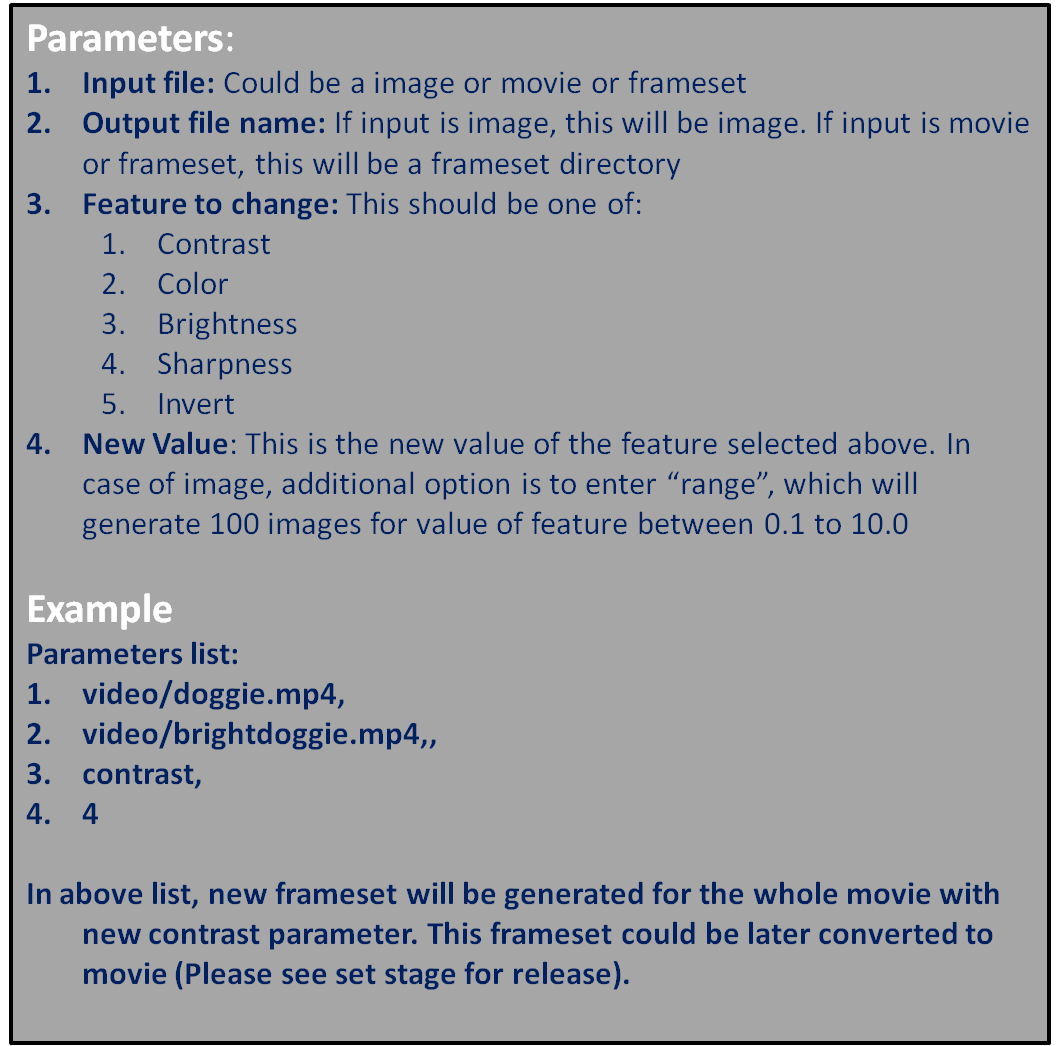
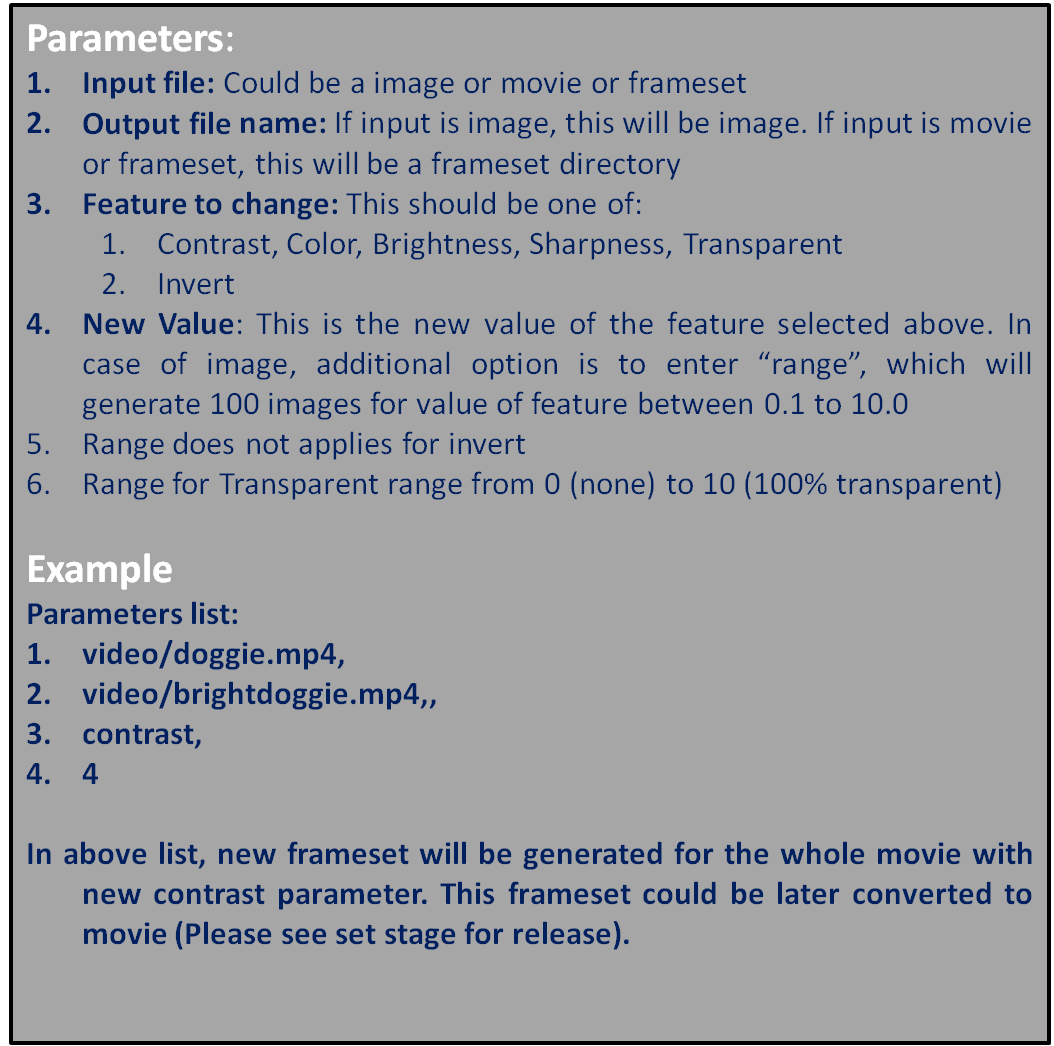
adding for transparency and video range

Changed region(s): [[0.0304, 0.0, 1.0, 1.0], [0.0304, 0.3059, 0.0607, 0.3365]]

diff --git a/imagings.py b/imagings.py
@@ -353,26 +353,30 @@ def image_createillustration (ifile = '', ofile = '', method = '', islist = 0, a
     return 1
 
 def ui_image_manipulation_basic (entparams = [], appsetup = {}):
-    permissibles = ['contrast', 'color', 'brightness', 'sharpness', 'invert']
+    permissibles = ['contrast', 'color', 'brightness', 'sharpness', 'invert', 'transparent']
     if entparams[2] not in permissibles:
         localmessage (mtype = 'error', title = 'Incorrect action type', message = f"The feature to be modified should be one of: {', '.join(permissibles)}")
         return -1
     newVal = pyback.forceint(entparams[3], 1) if entparams[3] != 'range' else 'range'
     outfolder = 1 if newVal == 'range' else 0
     inpfile, outfile = create_output_path (param0 = entparams[0], param1 = entparams[1], appsetup = appsetup, outfolder = outfolder)
-    if inpfile.is_dir() and newVal == 'range':
-        localmessage (mtype = 'error', title = 'Range is invalid', message = f"Setting range over already set of images will create too many media. Stopping")
-        return -1
     if inpfile.is_dir():
-        for ifile in inpfile.iterdir():
-            ofile = outfile / ifile.name
-            enhance_image_basic (ifile = ifile, ofile = ofile, param = entparams[2], nval = newVal)
-    elif newVal == 'range':
-        for frid in range(1, 101):
-            newcVal = (frid-1)*0.1
-            ofile = outfile / ("frame__"+"%06d"%(frid)+".png")
-            enhance_image_basic (ifile = inpfile, ofile = ofile, param = entparams[2], nval = newcVal)
-    else: enhance_image_basic (ifile = inpfile, ofile = outfile, param = entparams[2], nval = newVal)
+        if newVal == 'range':
+            fcount = len(list(inpfile.glob('frame__[0-9][0-9][0-9][0-9][0-9][0-9].png')))
+            for ix, ifile in enumerate(inpfile.iterdir()):
+                ofile = outfile / ifile.name
+                enhance_image_basic (ifile = ifile, ofile = ofile, param = entparams[2], nval = 0.1+ix*9.9/fcount)
+        else:
+            for ifile in inpfile.iterdir():
+                ofile = outfile / ifile.name
+                enhance_image_basic (ifile = ifile, ofile = ofile, param = entparams[2], nval = newVal)
+    elif inpfile.is_file():
+        if newVal == 'range':
+            for frid in range(1, 101):
+                newcVal = (frid-1)*0.1
+                ofile = outfile / ("frame__"+"%06d"%(frid)+".png")
+                enhance_image_basic (ifile = inpfile, ofile = ofile, param = entparams[2], nval = newcVal)
+        else: enhance_image_basic (ifile = inpfile, ofile = outfile, param = entparams[2], nval = newVal)
     return 1
 
 def enhance_image_basic (ifile = '', ofile = '', param = '', nval = 1.0):
@@ -393,6 +397,10 @@ def enhance_image_basic (ifile = '', ofile = '', param = '', nval = 1.0):
         rgbimg = image.convert('RGB')
         rgbimginv = ImageOps.invert(rgbimg)
         rgbimginv.save(ofile)
+    if param == 'transparent':
+        rgbimg = image.copy()
+        rgbimg.putalpha(255-int(nval*255/10))
+        rgbimg.save(ofile)
     return 1
 
 # Below function is for internal consumption only

diff --git a/pyui.py b/pyui.py
@@ -75,7 +75,7 @@ procsitems = [
         "params": ["Input file/folder", "Output file name", "Frames range (default is all frames: 1,-1)", "FPS (leave blank for using video's default)", "Final count of frames to be included in model file"]
     }, {"fname": "Pre-process", "text": "Basic image manipulation functions", "descimage": "imgs/basicmanipul.png",
         "function": "ui_image_manipulation_basic", "xtraprocess": {},
-        "params": ["Input image file", "Output file name", "Feature of the Image to be changed\n('contrast'/'color'/'brightness'/'sharpness'/'invert')", "New value (number)\n Or type 'range' for values from 0 to 100 (100 images)"]
+        "params": ["Input image file", "Output file name", "Feature of the Image to be changed\n('contrast'/'color'/'brightness'/'sharpness'/'transparent',\n'invert')", "New value (number)\n Or type 'range' for values from 0 to 100 (100 images)"]
     }, {"fname": "Pre-process", "text": "Advanced image manipulation - Background processing", "descimage": "imgs/bgremove.png" ,
         "function": "ui_image_manipulation_rmback", "xtraprocess": {},
         "params": ["Input image file", "Output file name", "Background removal method\n(AI Based) ibrt / static (static color removal)", "Color name (white/black/red/green/blue/yellow/panda3d)\nOR Range of color in specified format (see left)"]
